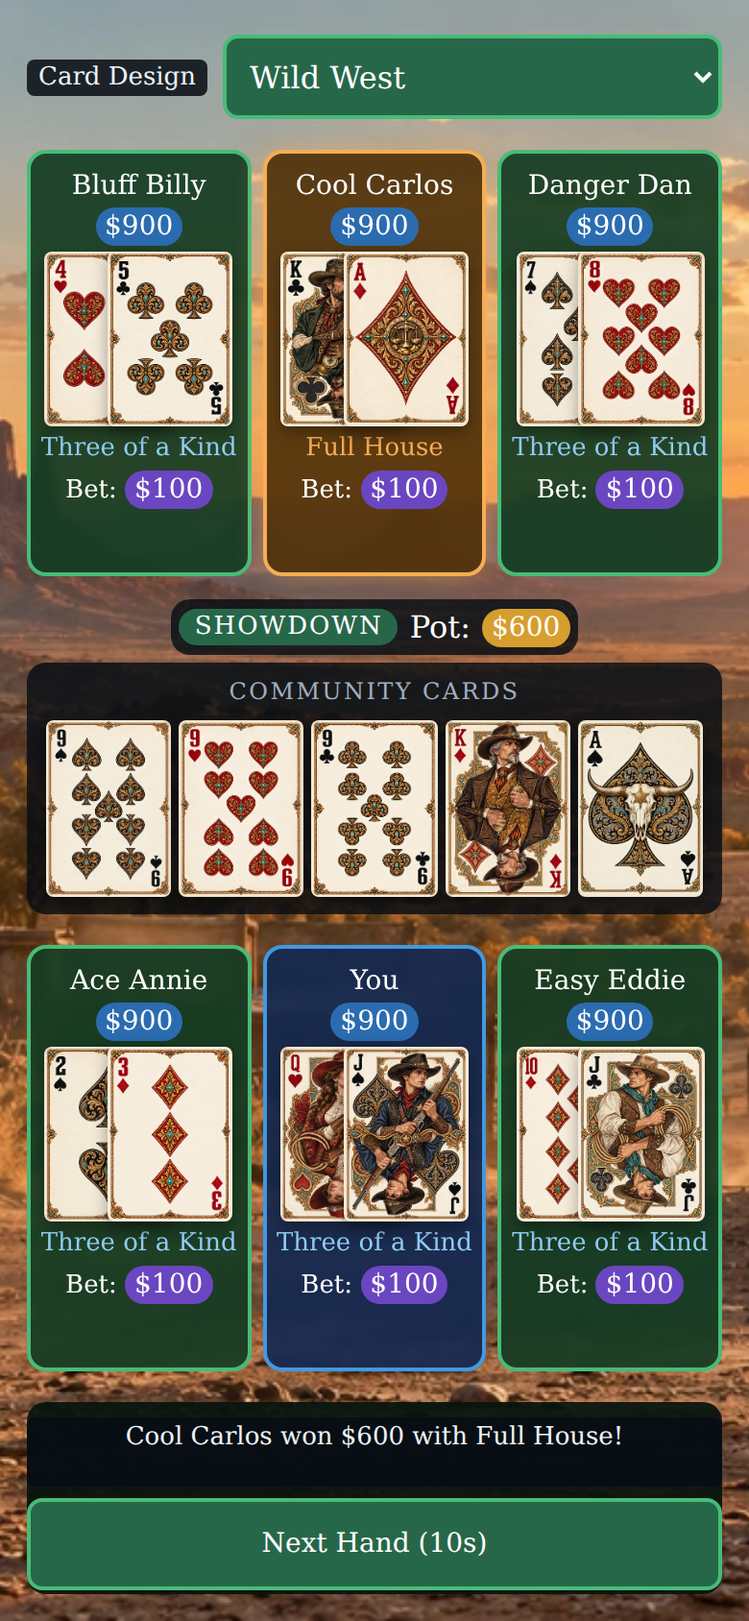
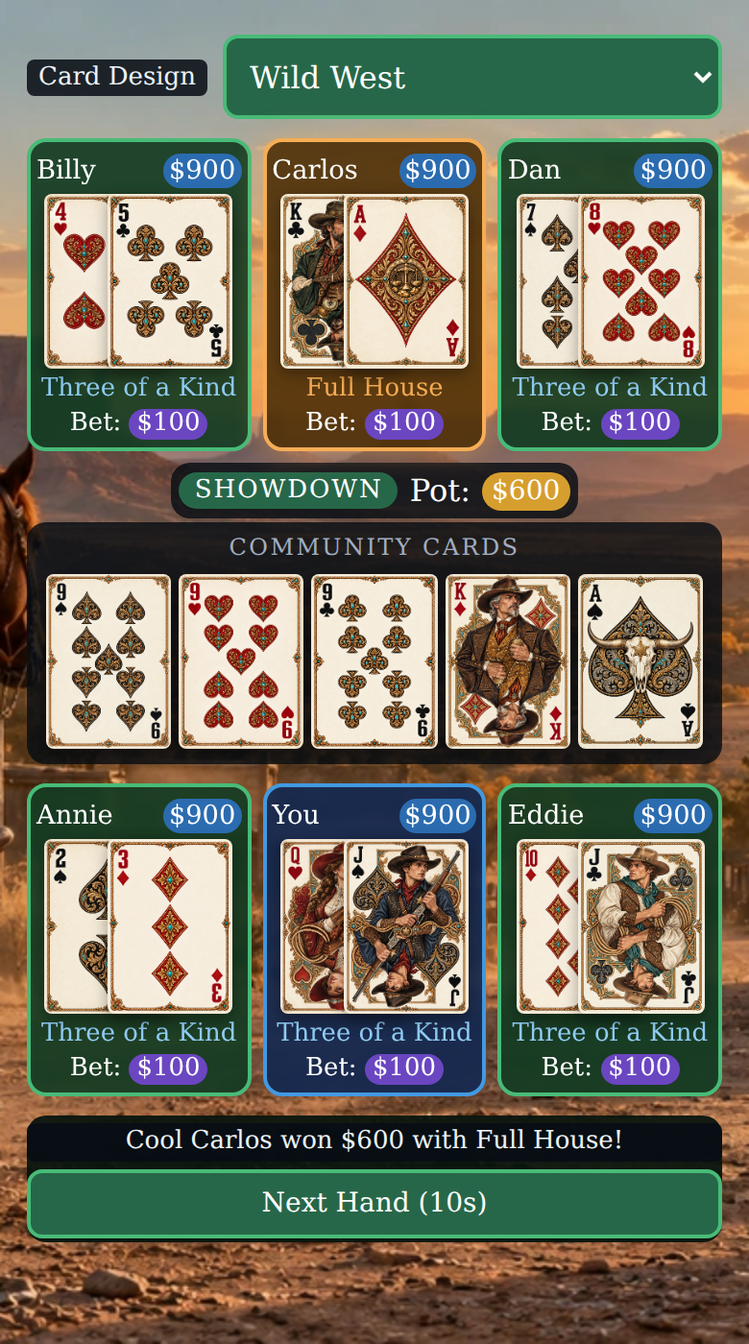
Compact portrait panels and show first names beside chip balances

diff --git a/index.html b/index.html
@@ -66,6 +66,7 @@ button{font-family:'Noticia Text',Georgia,serif;cursor:pointer}
 .log-entry{font-size:12px;color:#718096;line-height:1.4;padding:2px 0;border-bottom:1px solid rgba(255,255,255,0.04)}
 .log-entry.latest{color:#e2e8f0}
 .player-details{display:contents}
+.short-player-name{display:none}
 /* Portrait phones use real viewport pixels; landscape keeps the desktop canvas. */
 @media (max-width:700px) and (orientation:portrait){
   #scale-root{height:100vh;height:100dvh;display:block;overflow-x:hidden;overflow-y:auto;}
@@ -74,48 +75,53 @@ button{font-family:'Noticia Text',Georgia,serif;cursor:pointer}
     width:100%;height:auto;min-height:100%;transform:none!important;
     padding:max(12px,env(safe-area-inset-top)) max(8px,env(safe-area-inset-right)) max(8px,env(safe-area-inset-bottom)) max(8px,env(safe-area-inset-left));
   }
-  #table-wrap{align-items:stretch;min-width:0;}
+  #table-wrap{flex:0;align-items:flex-start;min-width:0;}
   #table{
     width:100%;height:auto;min-width:0;padding:6px;border:0;border-radius:24px;
     display:grid;grid-template-columns:repeat(3,minmax(0,1fr));
-    grid-template-rows:auto 1fr auto 1fr auto;
+    grid-template-rows:repeat(5,auto);
     grid-template-areas:"theme theme theme" "seat2 seat3 seat4" "board board board" "seat1 seat0 seat5" "actions actions actions";
-    gap:16px 6px;align-items:center;box-shadow:inset 0 0 0 2px rgba(104,211,145,.25);
+    gap:10px 6px;align-items:center;box-shadow:inset 0 0 0 2px rgba(104,211,145,.25);
   }
   /* 0 -> 1 -> 2 -> 3 -> 4 -> 5 remains clockwise around the board. */
   #seat-0{grid-area:seat0;} #seat-1{grid-area:seat1;} #seat-2{grid-area:seat2;}
   #seat-3{grid-area:seat3;} #seat-4{grid-area:seat4;} #seat-5{grid-area:seat5;}
   .seat{position:static;transform:none;min-width:0;align-self:stretch;}
-  .pbox,.pbox.human{width:100%;height:100%;min-width:0;padding:8px 3px 5px;border-radius:10px;}
-  .player-heading{flex-direction:column;gap:2px!important;line-height:18px;}
-  .player-heading>span{font-size:14px!important;max-width:100%;}
+  .pbox,.pbox.human{width:100%;height:100%;min-width:0;padding:6px 3px 4px;border-radius:10px;}
+  .player-heading{flex-direction:row;gap:2px!important;line-height:18px;white-space:nowrap;}
+  .player-heading>span{font-size:clamp(12px,3.5vw,14px)!important;max-width:100%;}
+  .full-player-name{display:none;}
+  .short-player-name{display:inline;}
   .chip{font-size:14px;padding:1px 5px;line-height:18px;}
+  .player-heading .chip{padding:0 3px;}
   .hole-cards{gap:0!important;isolation:isolate;}
   .playing-card{width:var(--card-width)!important;height:auto!important;border-radius:4px!important;}
   .playing-card>svg{display:block;width:100%;height:100%;}
   .hole-cards .playing-card+ .playing-card{margin-left:calc(var(--card-width)*-.5);position:relative;z-index:1;}
-  .player-details{display:flex;flex-direction:column;justify-content:flex-start;min-height:42px;}
-  .player-details>div{font-size:13px!important;line-height:18px;}
+  .player-details{display:flex;flex-direction:column;justify-content:flex-start;min-height:34px;}
+  .player-details>div{font-size:clamp(11px,3.33vw,13px)!important;line-height:16px;white-space:nowrap;}
+  .player-details .chip{font-size:inherit;line-height:16px;padding:0 4px;}
   .best-prefix{display:none;}
   .thinking-badge{top:-10px;font-size:11px;line-height:16px;padding:0 5px;}
-  #table-center{grid-area:board;min-width:0;width:100%;margin:0;gap:8px;}
+  #table-center{grid-area:board;min-width:0;width:100%;margin:0;gap:6px;}
   #pot-row{gap:6px;justify-content:center;flex-wrap:wrap;}
   #phase-badge{font-size:13px;padding:2px 8px;}
-  #community-wrap{width:100%;padding:8px 4px;}
-  #community-label{font-size:12px;letter-spacing:1.2px;margin-bottom:7px;}
+  #community-wrap{width:100%;padding:6px 4px;}
+  #community-label{font-size:12px;letter-spacing:1.2px;margin-bottom:5px;}
   #community-cards{min-width:0;min-height:calc(var(--card-width)*1.447);gap:4px;}
   #card-theme-menu{grid-area:theme;position:static;min-width:0;width:100%;flex-direction:row;align-items:center;gap:8px;}
   #card-theme-menu label{flex-shrink:0;font-size:13px;padding:2px 4px;}
   #card-theme-select{flex:1;width:0;min-width:0;max-width:100%;min-height:44px;font-size:16px;padding:8px;}
-  #bottom-bar{grid-area:actions;position:sticky;bottom:env(safe-area-inset-bottom,0px);z-index:3;min-width:0;align-self:end;padding:8px 0 2px;background:rgba(7,20,14,.94);border-radius:10px;}
+  #bottom-bar{grid-area:actions;position:sticky;bottom:env(safe-area-inset-bottom,0px);z-index:3;min-width:0;align-self:end;padding:4px 0 2px;background:rgba(7,20,14,.94);border-radius:10px;}
   #controls-wrap{width:100%;min-width:0;align-items:stretch;}
-  #message{max-width:none;width:100%;white-space:normal;text-align:center;font-size:13px;line-height:18px;min-height:36px;margin-bottom:6px;padding:0 4px;}
+  #message{max-width:none;width:100%;white-space:normal;text-align:center;font-size:13px;line-height:16px;min-height:0;margin-bottom:4px;padding:0 4px;}
   #controls{display:flex;gap:6px;width:100%;}
-  #controls button{flex:1;min-width:0;min-height:48px;padding:8px 3px!important;font-size:14px!important;}
+  #controls button{flex:1;min-width:0;min-height:36px;padding:5px 3px!important;font-size:14px!important;line-height:18px;}
 }
 @media (max-width:360px) and (orientation:portrait){
-  .player-heading>span{font-size:13px!important;}
-  .player-details>div{font-size:12px!important;}
+  #table{column-gap:4px;}
+  .pbox,.pbox.human{padding-left:2px;padding-right:2px;}
+  .player-heading>span{font-size:12px!important;}
 }
 </style>
 </head>
@@ -320,6 +326,21 @@ function cardEl(card,hidden,small){
   return el;
 }
 
+// Keep both labels in the DOM so rotation only changes presentation, never game state.
+function playerNameEl(player,myTurn,allin){
+  var el=document.createElement("span");
+  el.style.cssText="font-size:16px;font-weight:normal;white-space:nowrap";
+  var full=document.createElement("span");
+  full.className="full-player-name";
+  full.textContent=player.human?("You"+(myTurn?" \u{1F535}":allin?" (All-In)":"")):player.name;
+  var short=document.createElement("span");
+  short.className="short-player-name";
+  short.textContent=player.human?"You":player.name.split(" ").pop();
+  el.appendChild(full);
+  el.appendChild(short);
+  return el;
+}
+
 function chipEl(amount,color){var el=document.createElement("span");el.className="chip";el.style.background=color||"#4a5568";el.textContent="$"+amount;return el;}
 var G={},aiTimer=null,nextHandTimer=null;
 function init(){if(nextHandTimer){clearInterval(nextHandTimer);nextHandTimer=null;}if(aiTimer){clearTimeout(aiTimer);aiTimer=null;}var aiDefs=[{name:"Ace Annie",chips:SC,human:false,style:"aggressive"},{name:"Bluff Billy",chips:SC,human:false,style:"bluffer"},{name:"Cool Carlos",chips:SC,human:false,style:"cautious"},{name:"Danger Dan",chips:SC,human:false,style:"balanced"},{name:"Easy Eddie",chips:SC,human:false,style:"loose"}];for(var i=aiDefs.length-1;i>0;i--){var j=Math.floor(Math.random()*(i+1));var t=aiDefs[i];aiDefs[i]=aiDefs[j];aiDefs[j]=t;}var aiPlayers2=aiDefs.map(function(a,i){return Object.assign({id:i+1},a);});G={players:[{id:0,name:"You",chips:SC,human:true,style:null}].concat(aiPlayers2),deck:[],hands:{},community:[],pot:0,bets:{},roundBet:0,folded:new Set(),allin:new Set(),acted:new Set(),raiseCount:0,raiseThresholdBonus:0,foldThresholdBonus:0,decremented:false,lastRaiserId:null,phase:"idle",activeId:null,dealerIdx:Math.floor(Math.random()*6),winners:[],log:[]};render();}
@@ -334,7 +355,7 @@ function applyAction(id,action){var p=G.players.find(function(x){return x.id===i
 function advancePhase(){var newBets={};G.players.forEach(function(p){newBets[p.id]=0;});G.bets=newBets;G.roundBet=0;G.acted=new Set();G.decremented=false;G.lastRaiserId=null;G.roundRaiseCount=0;G.phaseExpectBase=(G.phaseExpectBase||20)+20;G.phaseStartPot=G.pot;G.neverActed=new Set(inHand().map(function(p){return p.id;}));if(G.phase==="preflop"){G.community=[G.deck.shift(),G.deck.shift(),G.deck.shift()];G.phase="flop";addLog("--- Flop ---");soundNewPhase();}else if(G.phase==="flop"){G.community.push(G.deck.shift());G.phase="turn";addLog("--- Turn ---");soundNewPhase();}else if(G.phase==="turn"){G.community.push(G.deck.shift());G.phase="river";addLog("--- River ---");soundNewPhase();}else{doShowdown();return;}if(canAct().length===0){render();setTimeout(advancePhase,600);return;}var actors=canAct(),allIds=G.players.map(function(p){return p.id;}),firstId=actors[0].id;for(var i=1;i<=allIds.length;i++){var pp=G.players[(G.dealerIdx+i)%allIds.length];if(pp){var found=false;for(var j=0;j<actors.length;j++){if(actors[j].id===pp.id){found=true;break;}}if(found){firstId=pp.id;break;}}}G.activeId=firstId;render();if(firstId!==0)scheduleAI(firstId);else setMsg("Your turn - Check or Raise?");}
 function doShowdown(){G.phase="showdown";G.activeId=null;soundShowdown();var competing=inHand();var results=competing.map(function(p){return Object.assign({},p,{best:bestHand(G.hands[p.id]||[],G.community)});});var bestRank=-1;for(var i=0;i<results.length;i++){if(results[i].best&&results[i].best.rank>bestRank)bestRank=results[i].best.rank;}var candidates=results.filter(function(r){return r.best&&r.best.rank===bestRank;});candidates.sort(function(a,b){var av=a.best.vals,bv=b.best.vals;for(var i=0;i<Math.max(av.length,bv.length);i++){if((bv[i]||0)!==(av[i]||0))return(bv[i]||0)-(av[i]||0);}return 0;});var topVals=candidates[0].best.vals;var ws=candidates.filter(function(r){var v=r.best.vals;for(var i=0;i<Math.max(v.length,topVals.length);i++){if((v[i]||0)!==(topVals[i]||0))return false;}return true;});var share=Math.floor(G.pot/ws.length),remainder=G.pot-share*ws.length;var allIds=G.players.map(function(p){return p.id;});var sortedW=ws.slice().sort(function(a,b){var ai=(allIds.indexOf(a.id)-G.dealerIdx-1+allIds.length)%allIds.length;var bi=(allIds.indexOf(b.id)-G.dealerIdx-1+allIds.length)%allIds.length;return ai-bi;});G.winners=ws.map(function(w){return w.id;});G.players=G.players.map(function(p){var wi=-1;for(var i=0;i<sortedW.length;i++){if(sortedW[i].id===p.id){wi=i;break;}}if(wi===-1)return p;return Object.assign({},p,{chips:p.chips+share+(wi<remainder?1:0)});});var names=ws.map(function(w){return w.id===0?"You":w.name;}).join(" & ");var hn=ws[0]&&ws[0].best?ws[0].best.name:"High Card";addLog(names+" won $"+G.pot+" ("+hn+")");var left=G.players.filter(function(p){return p.chips>0;});var winnerName=ws[0]?(ws[0].id===0?"You":ws[0].name):"Someone";if(left.length<=1){setMsg(names+" won the game!");soundWin();setTimeout(soundWin,500);}else{setMsg(names+" won $"+G.pot+" with "+hn+"!");soundWin();}G.dealerIdx=(G.dealerIdx+1)%Math.max(1,G.players.filter(function(p){return p.chips>0||G.winners.indexOf(p.id)>=0;}).length);render();}
 function humanAction(action){if(G.activeId!==0||G.phase==="idle"||G.phase==="showdown")return;applyAction(0,action);}
-function render(){var players=G.players,hands=G.hands,community=G.community,pot=G.pot,bets=G.bets;var folded=G.folded,allin=G.allin,phase=G.phase,activeId=G.activeId,winners=G.winners,log=G.log,roundBet=G.roundBet;var phaseLabel={idle:"",preflop:"PRE-FLOP",flop:"FLOP",turn:"TURN",river:"RIVER",showdown:"SHOWDOWN"}[phase]||"";var isMyTurn=activeId===0&&phase!=="idle"&&phase!=="showdown"&&!folded.has(0)&&!allin.has(0);var pb=document.getElementById("phase-badge");pb.style.display=phaseLabel?"inline-block":"none";pb.textContent=phaseLabel;var pc=document.getElementById("pot-chip");pc.innerHTML="";pc.appendChild(chipEl(pot,"#d69e2e"));var aiPlayers=players.filter(function(p){return!p.human;});var seatMap={0:players.find(function(p){return p.human;})};aiPlayers.forEach(function(p,i){seatMap[i+1]=p;});for(var si=0;si<=5;si++){var seat=document.getElementById("seat-"+si);if(!seat)continue;var p=seatMap[si];if(!p){seat.innerHTML="";continue;}var isHuman=p.human;var isFolded=folded.has(p.id),isAllin=allin.has(p.id),isActive=activeId===p.id&&phase!=="idle"&&phase!=="showdown",isWinner=winners.indexOf(p.id)>=0;var box=document.createElement("div");var cls="pbox"+(isHuman?" human":"")+(isFolded?" folded":isWinner?" winner":isActive?" active":isAllin?" allin":"")+(isHuman&&isMyTurn?" myturn":"");box.className=cls;if(isActive&&!isHuman){var tb=document.createElement("div");tb.className="thinking-badge";tb.textContent="THINKING";box.appendChild(tb);}var nameRow=document.createElement("div");nameRow.className="player-heading";nameRow.style.cssText="display:flex;justify-content:space-between;align-items:center;gap:8px;margin-bottom:3px";var nl=document.createElement("span");nl.style.cssText="font-size:16px;font-weight:normal;white-space:nowrap";nl.textContent=isHuman?("You"+(isMyTurn?" \u{1F535}":isAllin?" (All-In)":"")):p.name;nameRow.appendChild(nl);nameRow.appendChild(chipEl(p.chips,p.chips<100?"#c53030":"#2b6cb0"));box.appendChild(nameRow);var cr=document.createElement("div");cr.className="hole-cards";cr.style.cssText="display:flex;gap:4px;justify-content:center;margin:3px 0";var useSmall=!isHuman;if(phase==="showdown"&&hands[p.id]){var hideInShowdown=isFolded&&isHuman;hands[p.id].forEach(function(c){cr.appendChild(cardEl(c,hideInShowdown,useSmall));});}else if(hands[p.id]){if(isHuman){hands[p.id].forEach(function(c){cr.appendChild(cardEl(c,false,false));});}else{cr.appendChild(cardEl(null,true,useSmall));cr.appendChild(cardEl(null,true,useSmall));}}else{cr.appendChild(cardEl(null,true,useSmall));cr.appendChild(cardEl(null,true,useSmall));}box.appendChild(cr);var details=document.createElement("div");details.className="player-details";box.appendChild(details);if(phase==="showdown"&&!isFolded&&hands[p.id]){var bh=bestHand(hands[p.id],G.community);if(bh){var hl=document.createElement("div");hl.style.cssText="font-size:16px;color:"+(isWinner?"#f6ad55":"#90cdf4");hl.textContent=bh.name;details.appendChild(hl);}}if(isHuman&&hands[0]&&community.length>0&&!isFolded&&phase!=="showdown"){var bh2=bestHand(hands[0],community);if(bh2){var bl=document.createElement("div");bl.style.cssText="font-size:16px;color:#90cdf4;margin-top:1px";var prefix=document.createElement("span");prefix.className="best-prefix";prefix.textContent="Best: ";bl.appendChild(prefix);bl.appendChild(document.createTextNode(bh2.name));details.appendChild(bl);}}if(isFolded){var fd=document.createElement("div");fd.style.cssText="font-size:16px;color:#fc8181";fd.textContent="FOLDED";details.appendChild(fd);}else if(isAllin){var ad=document.createElement("div");ad.style.cssText="font-size:16px;color:#63b3ed";ad.textContent="ALL-IN";details.appendChild(ad);}if(!isFolded&&(bets[p.id]||0)>0){var br2=document.createElement("div");br2.style.cssText="font-size:16px;margin-top:2px";br2.textContent="Bet: ";br2.appendChild(chipEl(bets[p.id],"#6b46c1"));details.appendChild(br2);}seat.innerHTML="";seat.appendChild(box);}var cc=document.getElementById("community-cards");cc.innerHTML="";if(community.length===0){var cs=document.createElement("span");cs.style.cssText="color:#a0aec0;font-size:16px;align-self:center";cs.textContent="Waiting for deal...";cc.appendChild(cs);}else community.forEach(function(c){cc.appendChild(cardEl(c,false,false));});var ctrl=document.getElementById("controls");ctrl.innerHTML="";var toCall=Math.max(0,roundBet-(bets[0]||0));var human=players.find(function(p){return p.id===0;});if(phase==="idle"||phase==="showdown"){var withChips=players.filter(function(p){return p.chips>0;});var gameOver=withChips.length<=1;var nextAction=gameOver?init:startHand,nextLabel=gameOver?"New Game":"Next Hand";var btn=document.createElement("button");btn.style.cssText="background:#276749;border:2px solid #48bb78;color:#fff;padding:9px 28px;border-radius:8px;font-size:16px;font-weight:normal";if(phase==="showdown"&&!gameOver){if(nextHandTimer)clearInterval(nextHandTimer);var secs=10;btn.textContent=nextLabel+" ("+secs+"s)";nextHandTimer=setInterval(function(){secs--;if(secs<=0){clearInterval(nextHandTimer);nextHandTimer=null;nextAction();}else btn.textContent=nextLabel+" ("+secs+"s)";},1000);btn.onclick=function(){clearInterval(nextHandTimer);nextHandTimer=null;nextAction();};}else{if(nextHandTimer){clearInterval(nextHandTimer);nextHandTimer=null;}btn.textContent=phase==="idle"?"Deal Cards":nextLabel;btn.onclick=nextAction;}ctrl.appendChild(btn);}else{var mkBtn=function(label,color,act,enabled){var b=document.createElement("button");b.style.cssText="background:"+color+";border:none;color:#fff;padding:8px 18px;border-radius:6px;font-weight:normal;font-size:16px;opacity:"+(enabled?1:0.4)+";cursor:"+(enabled?"pointer":"not-allowed");b.disabled=!enabled;b.textContent=label;b.onclick=function(){humanAction(act);};return b;};var betUnit=(G.phase==="turn"||G.phase==="river")?BB*2:BB;var raiseCap=G.phase==="preflop"?3:4;var raiseCapped=(G.roundRaiseCount||0)>=raiseCap;var canRaise=isMyTurn&&!raiseCapped&&(human?human.chips:0)>0&&(human?human.chips:0)+(bets[0]||0)>=roundBet+betUnit;ctrl.appendChild(mkBtn("Fold","#c53030","fold",isMyTurn));ctrl.appendChild(mkBtn(toCall===0?"Check":"Call $"+toCall,"#2b6cb0",toCall===0?"check":"call",isMyTurn));ctrl.appendChild(mkBtn(raiseCapped?"Raise (cap)":"Raise +$"+betUnit,"#d69e2e","raise",canRaise));}var le=document.getElementById("log-entries");le.innerHTML="";if(log&&log.length>0){log.forEach(function(l,i){var d=document.createElement("div");d.className="log-entry"+(i===0?" latest":"");d.textContent=l;le.appendChild(d);});le.scrollTop=0;}}
+function render(){var players=G.players,hands=G.hands,community=G.community,pot=G.pot,bets=G.bets;var folded=G.folded,allin=G.allin,phase=G.phase,activeId=G.activeId,winners=G.winners,log=G.log,roundBet=G.roundBet;var phaseLabel={idle:"",preflop:"PRE-FLOP",flop:"FLOP",turn:"TURN",river:"RIVER",showdown:"SHOWDOWN"}[phase]||"";var isMyTurn=activeId===0&&phase!=="idle"&&phase!=="showdown"&&!folded.has(0)&&!allin.has(0);var pb=document.getElementById("phase-badge");pb.style.display=phaseLabel?"inline-block":"none";pb.textContent=phaseLabel;var pc=document.getElementById("pot-chip");pc.innerHTML="";pc.appendChild(chipEl(pot,"#d69e2e"));var aiPlayers=players.filter(function(p){return!p.human;});var seatMap={0:players.find(function(p){return p.human;})};aiPlayers.forEach(function(p,i){seatMap[i+1]=p;});for(var si=0;si<=5;si++){var seat=document.getElementById("seat-"+si);if(!seat)continue;var p=seatMap[si];if(!p){seat.innerHTML="";continue;}var isHuman=p.human;var isFolded=folded.has(p.id),isAllin=allin.has(p.id),isActive=activeId===p.id&&phase!=="idle"&&phase!=="showdown",isWinner=winners.indexOf(p.id)>=0;var box=document.createElement("div");var cls="pbox"+(isHuman?" human":"")+(isFolded?" folded":isWinner?" winner":isActive?" active":isAllin?" allin":"")+(isHuman&&isMyTurn?" myturn":"");box.className=cls;if(isActive&&!isHuman){var tb=document.createElement("div");tb.className="thinking-badge";tb.textContent="THINKING";box.appendChild(tb);}var nameRow=document.createElement("div");nameRow.className="player-heading";nameRow.style.cssText="display:flex;justify-content:space-between;align-items:center;gap:8px;margin-bottom:3px";var nl=playerNameEl(p,isMyTurn,isAllin);nameRow.appendChild(nl);nameRow.appendChild(chipEl(p.chips,p.chips<100?"#c53030":"#2b6cb0"));box.appendChild(nameRow);var cr=document.createElement("div");cr.className="hole-cards";cr.style.cssText="display:flex;gap:4px;justify-content:center;margin:3px 0";var useSmall=!isHuman;if(phase==="showdown"&&hands[p.id]){var hideInShowdown=isFolded&&isHuman;hands[p.id].forEach(function(c){cr.appendChild(cardEl(c,hideInShowdown,useSmall));});}else if(hands[p.id]){if(isHuman){hands[p.id].forEach(function(c){cr.appendChild(cardEl(c,false,false));});}else{cr.appendChild(cardEl(null,true,useSmall));cr.appendChild(cardEl(null,true,useSmall));}}else{cr.appendChild(cardEl(null,true,useSmall));cr.appendChild(cardEl(null,true,useSmall));}box.appendChild(cr);var details=document.createElement("div");details.className="player-details";box.appendChild(details);if(phase==="showdown"&&!isFolded&&hands[p.id]){var bh=bestHand(hands[p.id],G.community);if(bh){var hl=document.createElement("div");hl.style.cssText="font-size:16px;color:"+(isWinner?"#f6ad55":"#90cdf4");hl.textContent=bh.name;details.appendChild(hl);}}if(isHuman&&hands[0]&&community.length>0&&!isFolded&&phase!=="showdown"){var bh2=bestHand(hands[0],community);if(bh2){var bl=document.createElement("div");bl.style.cssText="font-size:16px;color:#90cdf4;margin-top:1px";var prefix=document.createElement("span");prefix.className="best-prefix";prefix.textContent="Best: ";bl.appendChild(prefix);bl.appendChild(document.createTextNode(bh2.name));details.appendChild(bl);}}if(isFolded){var fd=document.createElement("div");fd.style.cssText="font-size:16px;color:#fc8181";fd.textContent="FOLDED";details.appendChild(fd);}else if(isAllin){var ad=document.createElement("div");ad.style.cssText="font-size:16px;color:#63b3ed";ad.textContent="ALL-IN";details.appendChild(ad);}if(!isFolded&&(bets[p.id]||0)>0){var br2=document.createElement("div");br2.style.cssText="font-size:16px;margin-top:2px";br2.textContent="Bet: ";br2.appendChild(chipEl(bets[p.id],"#6b46c1"));details.appendChild(br2);}seat.innerHTML="";seat.appendChild(box);}var cc=document.getElementById("community-cards");cc.innerHTML="";if(community.length===0){var cs=document.createElement("span");cs.style.cssText="color:#a0aec0;font-size:16px;align-self:center";cs.textContent="Waiting for deal...";cc.appendChild(cs);}else community.forEach(function(c){cc.appendChild(cardEl(c,false,false));});var ctrl=document.getElementById("controls");ctrl.innerHTML="";var toCall=Math.max(0,roundBet-(bets[0]||0));var human=players.find(function(p){return p.id===0;});if(phase==="idle"||phase==="showdown"){var withChips=players.filter(function(p){return p.chips>0;});var gameOver=withChips.length<=1;var nextAction=gameOver?init:startHand,nextLabel=gameOver?"New Game":"Next Hand";var btn=document.createElement("button");btn.style.cssText="background:#276749;border:2px solid #48bb78;color:#fff;padding:9px 28px;border-radius:8px;font-size:16px;font-weight:normal";if(phase==="showdown"&&!gameOver){if(nextHandTimer)clearInterval(nextHandTimer);var secs=10;btn.textContent=nextLabel+" ("+secs+"s)";nextHandTimer=setInterval(function(){secs--;if(secs<=0){clearInterval(nextHandTimer);nextHandTimer=null;nextAction();}else btn.textContent=nextLabel+" ("+secs+"s)";},1000);btn.onclick=function(){clearInterval(nextHandTimer);nextHandTimer=null;nextAction();};}else{if(nextHandTimer){clearInterval(nextHandTimer);nextHandTimer=null;}btn.textContent=phase==="idle"?"Deal Cards":nextLabel;btn.onclick=nextAction;}ctrl.appendChild(btn);}else{var mkBtn=function(label,color,act,enabled){var b=document.createElement("button");b.style.cssText="background:"+color+";border:none;color:#fff;padding:8px 18px;border-radius:6px;font-weight:normal;font-size:16px;opacity:"+(enabled?1:0.4)+";cursor:"+(enabled?"pointer":"not-allowed");b.disabled=!enabled;b.textContent=label;b.onclick=function(){humanAction(act);};return b;};var betUnit=(G.phase==="turn"||G.phase==="river")?BB*2:BB;var raiseCap=G.phase==="preflop"?3:4;var raiseCapped=(G.roundRaiseCount||0)>=raiseCap;var canRaise=isMyTurn&&!raiseCapped&&(human?human.chips:0)>0&&(human?human.chips:0)+(bets[0]||0)>=roundBet+betUnit;ctrl.appendChild(mkBtn("Fold","#c53030","fold",isMyTurn));ctrl.appendChild(mkBtn(toCall===0?"Check":"Call $"+toCall,"#2b6cb0",toCall===0?"check":"call",isMyTurn));ctrl.appendChild(mkBtn(raiseCapped?"Raise (cap)":"Raise +$"+betUnit,"#d69e2e","raise",canRaise));}var le=document.getElementById("log-entries");le.innerHTML="";if(log&&log.length>0){log.forEach(function(l,i){var d=document.createElement("div");d.className="log-entry"+(i===0?" latest":"");d.textContent=l;le.appendChild(d);});le.scrollTop=0;}}
 initCardThemes();
 init();
 applyScale();

diff --git a/README.md b/README.md
@@ -11,7 +11,7 @@ A browser-based Fixed-Limit Texas Hold'em poker game. No installation, no build 
 - **Realistic card graphics** — Rendered via the [SVG-cards](https://github.com/htdebeer/SVG-cards) library
 - **Selectable card designs** — Choose SVG-cards, Geometric Rhapsody, Jinxiu Huazhang (锦绣华章), Dead Zone (疫变禁区), Wild West (荒野镖客), Blood Moon Castle, Azure Holiday (碧海假日), Cyber Epoch (赛博纪元), or Star Voyage (星河纪行), in that order. The menu is at the lower left on desktop/landscape and at the top on portrait phones. Fronts, backs, and the background change together without restarting the hand; the browser remembers your choice.
 - **Themed backgrounds** — SVG-cards keeps the green felt table. Geometric Rhapsody uses a textured abstract geometric painting, Jinxiu Huazhang uses a Chinese palace garden beside a mountain lake at sunset, Dead Zone uses an overgrown abandoned city and quarantine checkpoint, Wild West uses a sunset frontier town with a mounted cowboy and desert mesas, Blood Moon Castle uses a photorealistic Gothic castle under a blood moon, Azure Holiday uses a sunny tropical beach, Cyber Epoch uses a futuristic city illuminated by neon lights, and Star Voyage uses a navy-and-gold celestial sailing chart. Each custom background covers the game canvas without stretching; portrait layouts crop the sides of the landscape artwork.
-- **Portrait phone layout** — Three opponents above the community cards; two opponents and you below, with you in the center. All cards have the same size, with the right hole card covering half of the left one. The clockwise action order is preserved. [Layout notes and screenshot](docs/portrait-layout.md).
+- **Portrait phone layout** — Three opponents above the community cards; two opponents and you below, with you in the center. First names and chip balances share one compact heading row. All cards have the same size, with the right hole card covering half of the left one. The clockwise action order is preserved. [Layout notes and screenshot](docs/portrait-layout.md).
 - **Sound effects** — Web Audio API tones for deal, check, call, raise, fold, all-in, and win
 - **Theme music** — All nine themes play their supplied MP3 from the beginning every time you select that theme, looping until you leave it. Switching themes stops the previous track before starting the next.
 - **Auto-advance** — Next hand starts automatically after a 10-second countdown
@@ -76,7 +76,7 @@ Straight Flush · Four of a Kind · Full House · Flush · Straight · Three of 
 - Theme preference: saved locally as `texas-holdem-card-theme`; defaults to SVG-cards and remains usable when browser storage is blocked. Switching updates card graphics, background styling, and theme music while preserving game state and timers. The saved background is restored on reload, and choosing SVG-cards restores the green table.
 - AI hand strength: Chen Formula (pre-flop) + Monte Carlo win-rate simulation (post-flop)
 - Audio: sound effects use Web Audio API (`OscillatorNode` + `GainNode`). Each theme uses `audio/<theme-id>.mp3` (including `audio/wild-west.mp3`) through one looping `AudioBufferSourceNode` on the same audio context, with a separate gain of 0.35. Each MP3 is loaded and decoded on demand, then cached separately for future selections. Each entry starts a fresh source at offset zero; leaving stops it and invalidates pending playback, without suspending game sound effects. If browser autoplay policy blocks the default or saved theme on page load, music starts after the first click or key interaction.
-- Mobile / iOS: touch events use standard DOM. Portrait controls have at least 48 px height; safe-area insets and the dynamic viewport height are respected. Short viewports scroll vertically with sticky action controls. Player panels reserve two status lines and expand if text wraps or an additional all-in status is needed.
+- Mobile / iOS: touch events use standard DOM. Portrait controls have a compact 36 px minimum height; safe-area insets and the dynamic viewport height are respected. Short viewports scroll vertically with sticky action controls. Player panels reserve 34 px for two non-wrapping status lines and can expand for an additional all-in status. Grid rows fit their contents instead of stretching to fill the screen; the message area grows only when its actual text needs more than one line.
 
 ### Checks
 

diff --git a/docs/portrait-layout.md b/docs/portrait-layout.md
@@ -11,21 +11,22 @@ Action still follows `0 → 1 → 2 → 3 → 4 → 5 → 0`, clockwise around t
 
 - All hole cards and community cards share one responsive width and preserve their theme's aspect ratio. At a 390 px viewport they are approximately 65 px wide.
 - The right hole card covers the right half of the left card. Community cards remain separate and in one row.
-- Each player panel reserves room below the cards for hand strength and the bet. Opponent cards and hand strength are revealed at the same game stages as before. Long labels or additional all-in status can expand the panel.
-- The theme selector is at the top; game actions are at the bottom. Short screens can scroll to reach every player, while actions remain available.
+- Portrait headings show Annie, Billy, Carlos, Dan, or Eddie alongside the chip balance in one row. You remains You. Desktop/landscape keeps the original full names and turn/all-in labels. CSS switches the visible name without rerendering or changing game data.
+- Each player panel reserves 34 px below the cards for two non-wrapping lines: hand strength and the bet. Text sizes and horizontal spacing adapt on narrow screens to keep the full labels visible. Opponent cards and hand strength are revealed at the same game stages as before; an additional all-in status can expand the panel.
+- The theme selector is at the top; game actions are below the lower players. Content-sized grid rows eliminate unused panel space. The prompt uses only its actual text height, and buttons have a 36 px minimum height. Short screens can scroll to reach every player, while actions remain available.
 - Rotation is entirely a layout change. It does not rerender the cards, restart theme music, reset the hand, or restart timers.
 
 ## Screenshot
 
-Wild West at a 390×844 CSS-pixel viewport (2× pixel density). This staged showdown demonstrates all six players' two status lines and overlapping cards; no demonstration state is included in the game itself.
+Wild West at a 390×700 CSS-pixel viewport (2× pixel density). This staged showdown demonstrates all six players' two status lines and overlapping cards; no demonstration state is included in the game itself. The content ends around 647 px from the top, compared with 830 px in the previous 390×844 layout, while cards retain the same size.
 
 ![Portrait layout with six players and five community cards](portrait-layout.png)
 
 ## Verification
 
-- Chromium phone emulation at 320×568, 360×640, 390×844, 430×932, 600×900, and 700×1000 with both the taller SVG-cards deck and Wild West.
+- Chromium phone emulation at 320×568, 360×640, 361×640, 375×667, 390×844, 430×932, 600×900, and 700×1000 with both the taller SVG-cards deck and Wild West.
 - All nine themes checked at 390×844: cards loaded, sizes matched, overlap was exactly half a card, opponents stayed hidden before showdown, and seats remained clockwise.
-- Showdown with every player's hand strength and bet; additional all-in/folded/thinking states; scrolling on a short viewport to expose the lower players above the controls.
+- Showdown with every player's hand strength and bet; no wrapped/overflowing hand labels; names and chip balances on the same row, including $6,000 balances at narrow widths; additional all-in/folded/thinking states; scrolling on a short viewport to expose the lower players above the controls.
 - Geometry compared to the previous main branch at 1200×700, 1920×1080, 1440×1080, 844×390, and 768×1024: canvas, seats, cards, community area, menu, and controls matched.
 - Rotation preserved the same game object, card elements, active music source, and next-hand countdown timer. A real Deal Cards button click still dealt to all six players.
 - All eight existing theme-music tests passed; no browser page errors.
